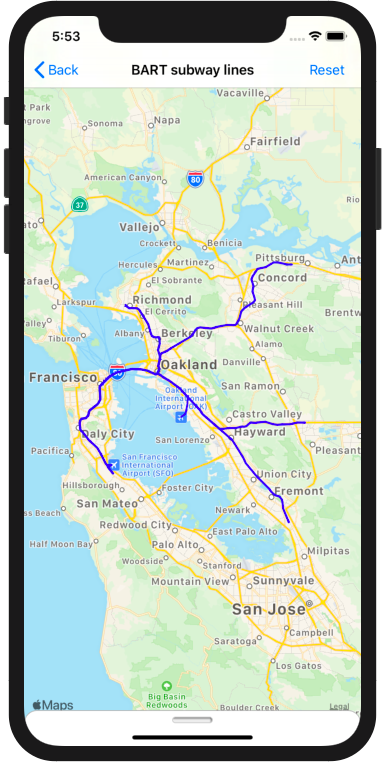
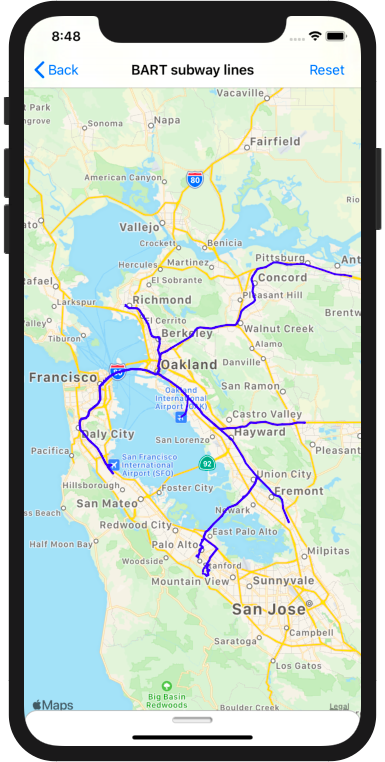
Expanded README usage section. Fixed error where failed queries caused API completion blocks to be run off the main thread. Added more demos to demo section.

diff --git a/Example/SwiftOverpassAPI/Models/Demo.swift b/Example/SwiftOverpassAPI/Models/Demo.swift
@@ -109,7 +109,7 @@ extension Demo {
 
 		let queryGenerator: (MKCoordinateRegion) -> String = { region in
 
-			let boundingBox = OPBoundingBox.init(region: region)
+			let boundingBox = OPBoundingBox(region: region)
 
 			return try! OPQueryBuilder()
 				.setTimeOut(180)
@@ -144,7 +144,7 @@ extension Demo {
 
 		let queryGenerator: (MKCoordinateRegion) -> String = { region in
 
-			let boundingBox = OPBoundingBox.init(region: region)
+			let boundingBox = OPBoundingBox(region: region)
 
 			return try! OPQueryBuilder()
 				.setTimeOut(180)
@@ -162,7 +162,7 @@ extension Demo {
 			queryGenerator: queryGenerator)
 	}
 	
-	static func makeSanFranciscoRoutesQuery() -> Demo {
+	static func makeBARTStopsQuery() -> Demo {
 
 		let title = "BART subway lines"
 		let resultUnit = "Route"
@@ -173,47 +173,20 @@ extension Demo {
 
 		let region = MKCoordinateRegion(
 			center: sanFranciscoCoordinate,
-			latitudinalMeters: 50000,
-			longitudinalMeters: 50000)
+			latitudinalMeters: 100000,
+			longitudinalMeters: 100000)
 
 		let queryGenerator: (MKCoordinateRegion) -> String = { region in
 
-			let boundingBox = OPBoundingBox.init(region: region)
+			let boundingBox = OPBoundingBox(region: region)
 
 			return try! OPQueryBuilder()
 				.setTimeOut(180)
 				.setElementTypes([.relation])
-				.addTagFilter(key: "network", value: "BART", exactMatchOnly: false)
-				.addTagFilter(key: "type", value: "route")
-				.addTagFilter(key: "name")
-				.setBoundingBox(boundingBox)
-				.setOutputType(.geometry)
-				.buildQueryString()
-		}
-		
-		let sanFranciscoCoordinate = CLLocationCoordinate2D(
-			latitude: 37.7749,
-			longitude: -122.4194)
-		
-		let queryRegion = MKCoordinateRegion(
-			center: sanFranciscoCoordinate,
-			latitudinalMeters: 50000,
-			longitudinalMeters: 50000)
-		
-		let boundingBox = OPBoundingBox(region: region)
-		
-		do {
-			let query = try OPQueryBuilder()
-				.setTimeOut(180)
-				.setElementTypes([.relation])
 				.addTagFilter(key: "network", value: "BART")
-				.addTagFilter(key: "type", value: "route")
-				.addTagFilter(key: "name")
 				.setBoundingBox(boundingBox)
-				.setOutputType(.geometry)
+				.setOutputType(.recurseDown)
 				.buildQueryString()
-		} catch {
-			print(error.localizedDescription)
 		}
 
 		return Demo(
@@ -234,21 +207,30 @@ extension Demo {
 
 		let region = MKCoordinateRegion(
 			center: sanFranciscoCoordinate,
-			latitudinalMeters: 50000,
-			longitudinalMeters: 50000)
+			latitudinalMeters: 100000,
+			longitudinalMeters: 100000)
 
 		let queryGenerator: (MKCoordinateRegion) -> String = { region in
 
-			let boundingBox = OPBoundingBox.init(region: region)
+			let boundingBox = OPBoundingBox(region: region)
+			
+//			let query = "data=[out:json];node[\"network\"=\"BART\"][\"public_transport\": \"stop_area\"]\(boundingBox.toString())->.bartStops;(way(around.bartStops:500)[\"amenity\"=\"cinema\"];node(around.bartStops:500)[\"amenity\"=\"cinema\"];);(._;>;);out;"
+			
+			let query = """
+						data=[out:json];
+						node["network"="BART"]
+							["railway"="stop"]
+							\(boundingBox.toString())
+							->.bartStops;
+						(
+							way(around.bartStops:200)["amenity"="cinema"];
+							node(around.bartStops:200)["amenity"="cinema"];
+						);
+						(._;>;);
+						out center;
+						"""
 
-			return try! OPQueryBuilder()
-				.setTimeOut(180)
-				.setElementTypes([.relation])
-				.addTagFilter(key: "network", value: "BART")
-				.addTagFilter(key: "type", value: "route")
-				.setBoundingBox(boundingBox)
-				.setOutputType(.geometry)
-				.buildQueryString()
+			return query
 		}
 
 		return Demo(
@@ -258,3 +240,20 @@ extension Demo {
 			queryGenerator: queryGenerator)
 	}
 }
+
+let boundingBox = OPBoundingBox(region: region)
+
+let query = """
+			data=[out:json];
+			node["network"="BART"]
+				["railway"="stop"]
+				\(boundingBox.toString())
+				->.bartStops;
+			(
+				way(around.bartStops:200)["amenity"="cinema"];
+				node(around.bartStops:200)["amenity"="cinema"];
+			);
+			(._;>;);
+			out center;
+			"""
+

diff --git a/Source/Models/OPBoundingBox.swift b/Source/Models/OPBoundingBox.swift
@@ -11,12 +11,25 @@ import MapKit
 // The 4 corner coordinates the define a search are of an Overpass API request.
 public struct OPBoundingBox {
 	
-	let minLatitude: Double
-	let minLongitude: Double
-	let maxLatitude: Double
-	let maxLongitude: Double
+	public let minLatitude: Double
+	public let minLongitude: Double
+	public let maxLatitude: Double
+	public let maxLongitude: Double
 	
-	func toString() -> String {
+	public init(
+		minLatitude: Double,
+		minLongitude: Double,
+		maxLatitude: Double,
+		maxLongitude: Double
+	)
+	{
+		self.minLatitude = minLatitude
+		self.minLongitude = minLongitude
+		self.maxLatitude = maxLatitude
+		self.maxLongitude = maxLongitude
+	}
+	
+	public func toString() -> String {
 		
 		let commaSeparatedValues = [
 			minLatitude,
@@ -35,16 +48,6 @@ public struct OPBoundingBox {
 
 // Convinience functions for creating a bounding box
 public extension OPBoundingBox {
-	
-	init(
-		topLeftCoordinate: CLLocationCoordinate2D,
-		bottomeRightCoordinate: CLLocationCoordinate2D)
-	{
-		minLatitude = bottomeRightCoordinate.latitude
-		minLongitude = topLeftCoordinate.longitude
-		maxLatitude = topLeftCoordinate.latitude
-		maxLongitude = bottomeRightCoordinate.longitude
-	}
 	
 	// Creating from a mapkit region
 	init(region: MKCoordinateRegion) {

diff --git a/Source/Networking/OPClient.swift b/Source/Networking/OPClient.swift
@@ -114,6 +114,13 @@ public class OPClient {
 		// Sending the URL request
 		task = URLSession.shared.dataTask(with: request) { [weak self] data, response, error in
 			
+			// Peform the completion handler on the main thread
+			let completionOnMain: (OPClientResult) -> Void = { result in
+				DispatchQueue.main.async {
+					completion(result)
+				}
+			}
+			
 			// Remove the stored reference to the task
 			self?.task = nil
 			
@@ -124,7 +131,7 @@ public class OPClient {
 			
 			// If the response returned an error, abort
 			if let error = error {
-				completion(.failure(error))
+				completionOnMain(.failure(error))
 				return
 			}
 			
@@ -133,12 +140,13 @@ public class OPClient {
 				let httpResponse = response as? HTTPURLResponse,
 				httpResponse.statusCode != 200
 			{
-				completion(.failure(OPRequestError.badResponse(httpResponse)))
+				completionOnMain(.failure(OPRequestError.badResponse(httpResponse)))
+				return
 			}
 			
 			// If the request returned nil data, abort
 			guard let data = data else {
-				completion(.failure(OPRequestError.nilData))
+				completionOnMain(.failure(OPRequestError.nilData))
 				return
 			}
 			

diff --git a/Example/SwiftOverpassAPI/Controllers/SelectDemoTableViewModel.swift b/Example/SwiftOverpassAPI/Controllers/SelectDemoTableViewModel.swift
@@ -21,7 +21,8 @@ class SelectDemoTableViewModel: NSObject, TableViewModel {
 		Demo.makeMultipolygonQuery(),
 		Demo.makeChicagoBuildingsQuery(),
 		Demo.makeChicagoTourismQuery(),
-		Demo.makeSanFranciscoRoutesQuery()
+		Demo.makeBARTStopsQuery(),
+		Demo.theatresNearBARTStopsQuery()
 	]
 	
 	// Initializing a simple selectable cellViewModel for each demo. The title is the corresponding demo's title.

diff --git a/Example/SwiftOverpassAPI/Controllers/DemoViewModel.swift b/Example/SwiftOverpassAPI/Controllers/DemoViewModel.swift
@@ -70,10 +70,9 @@ class DemoViewModel {
 				
 				// Add the generated visualizations to the mapView via the mapViewModel
 				self.mapViewModel.addVisualizations(visualizations)
-				
-				// Set the loading status to false
-				self.loadingStatusDidChangeTo?(false)
 			}
+			// Set the loading status to false
+			self.loadingStatusDidChangeTo?(false)
 		}
 	}
 	

diff --git a/README.md b/README.md
@@ -17,7 +17,32 @@ Overpass API is a read only database for querying open source mapping informatio
 
 ## **Usage**
 
-### **Building Queries**
+### **Creating a bounding box**
+
+Create a boxed region that will confine your query
+
+```swift
+// Option 1: Initialize with an MKCoordinateRegion
+let sanFranciscoCoordinate = CLLocationCoordinate2D(
+	latitude: 37.7749,
+	longitude: -122.4194)
+
+let queryRegion = MKCoordinateRegion(
+	center: sanFranciscoCoordinate,
+	latitudinalMeters: 50000,
+	longitudinalMeters: 50000)
+
+let boundingBox = OPBoundingBox(region: region)
+
+//Option 2: Initialize with latitudes and longitudes
+let boundingBox = OPBoundingBox(
+	minLatitude: 38.62661651293796,
+	minLongitude: -90.1998908782745,
+	maxLatitude: 38.627383487062005,
+	maxLongitude: -90.1989091217254)
+```
+
+### **Building a Query**
 
 For simple queries generation, you can use `OPQueryBuilder` class:
 
@@ -44,14 +69,31 @@ do {
 5) Filter for all elements with a "name" tag. Can have any assocaited value.
 6) Query within the specified bounding box
 7) Specify the output type of the query (See output types section)
-8) Build a query string that you pass to the overpass client when making requests to the Overpass API endpoint
+8) Build a query string that you pass to the overpass client when making requests to an Overpass API endpoint
 
-For more complicated queries, you may need to create the query yourself:
+The Overpass Query language enables diverse and powerful queries. This makes building a catch-all query builder quite difficult. For more complicated queries, you may need to create the query string yourself:
 
 ```swift
+let boundingBox = OPBoundingBox(region: region)
 
+let query = """
+			data=[out:json];
+			node["network"="BART"]
+				["railway"="stop"]
+				\(boundingBox.toString())
+				->.bartStops;
+			(
+				way(around.bartStops:200)["amenity"="cinema"];
+				node(around.bartStops:200)["amenity"="cinema"];
+			);
+			(._;>;);
+			out center;
+			"""
 ```
 
+This query finds all theatres within 200 meters of a BART (Bay Area Rapid Transit) stop. You can see just how flexible queries can be. Unfortunately, you can also see how complex the query language is. I recommend checking out out the [Overpass Language Guide](https://wiki.openstreetmap.org/wiki/Overpass_API/Language_Guide#Recursing_up_and_down:_Completed_ways_and_relations), the [Overpass Query Language Wiki](https://wiki.openstreetmap.org/wiki/Overpass_API/Overpass_QL), and [Overpass API by Example](https://wiki.openstreetmap.org/wiki/Overpass_API/Overpass_API_by_Example).
+
+### **Making an Overpass request**
 
 ## **Example App**
 <p align="center">
